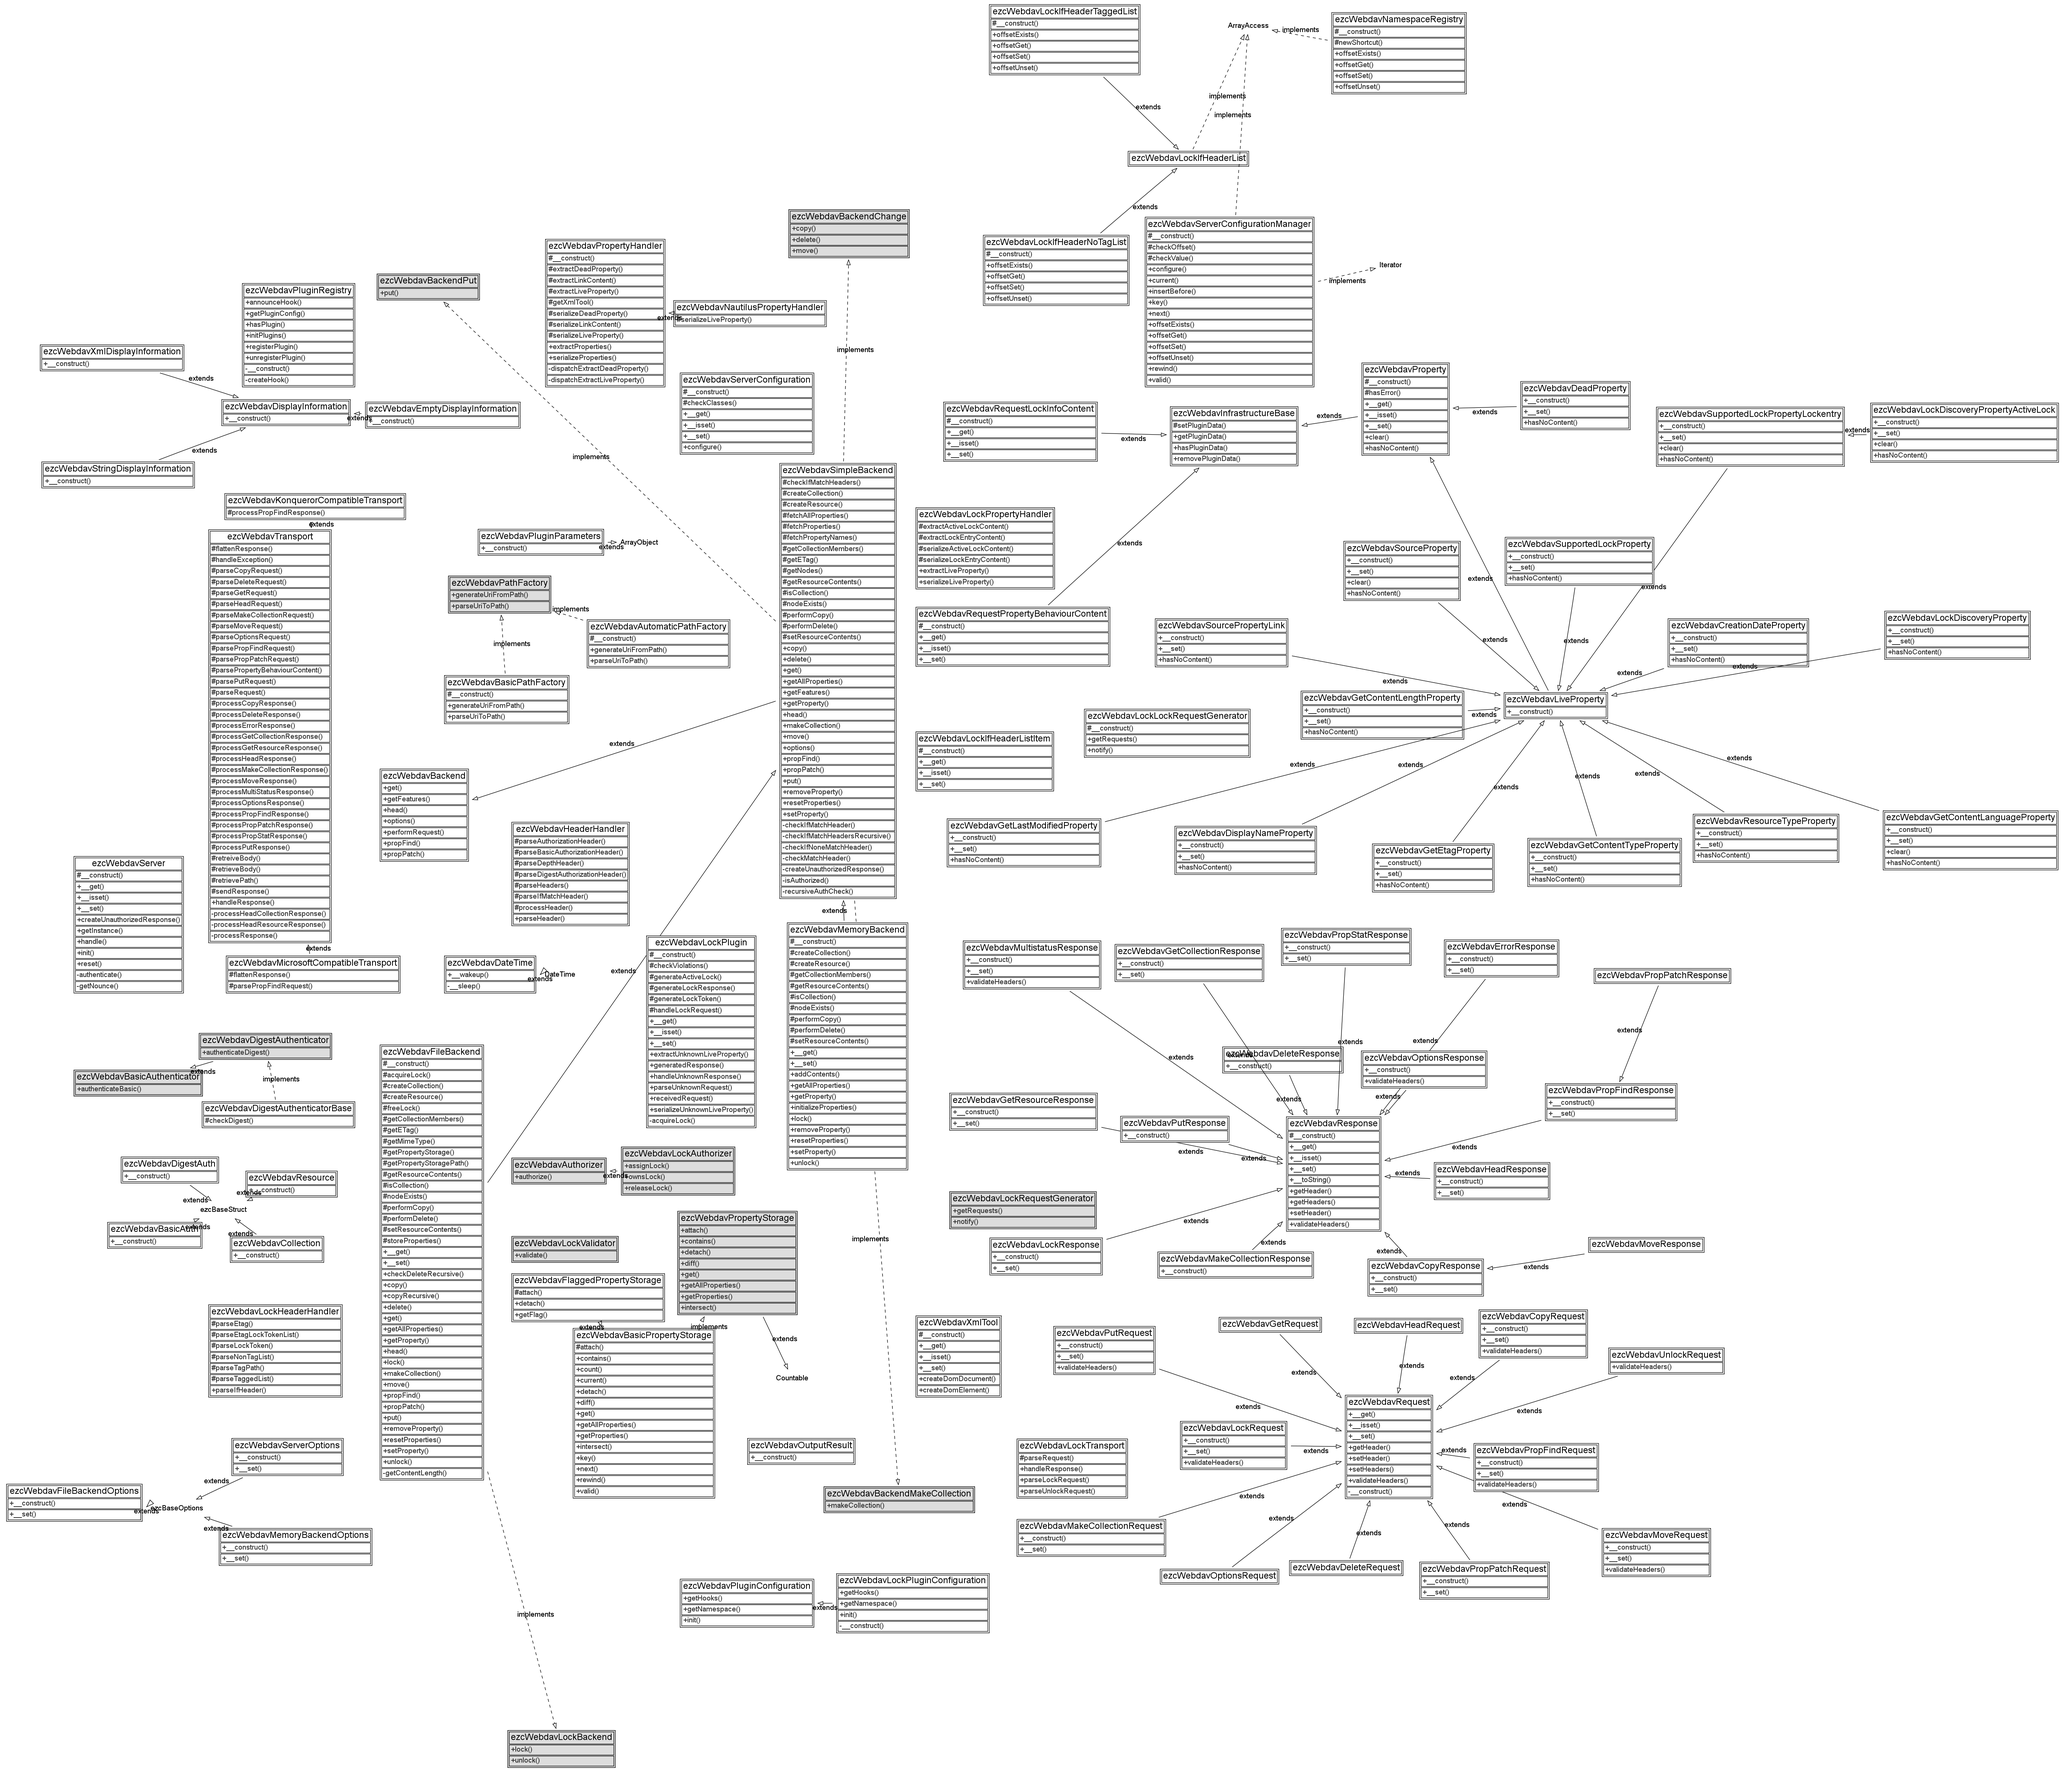
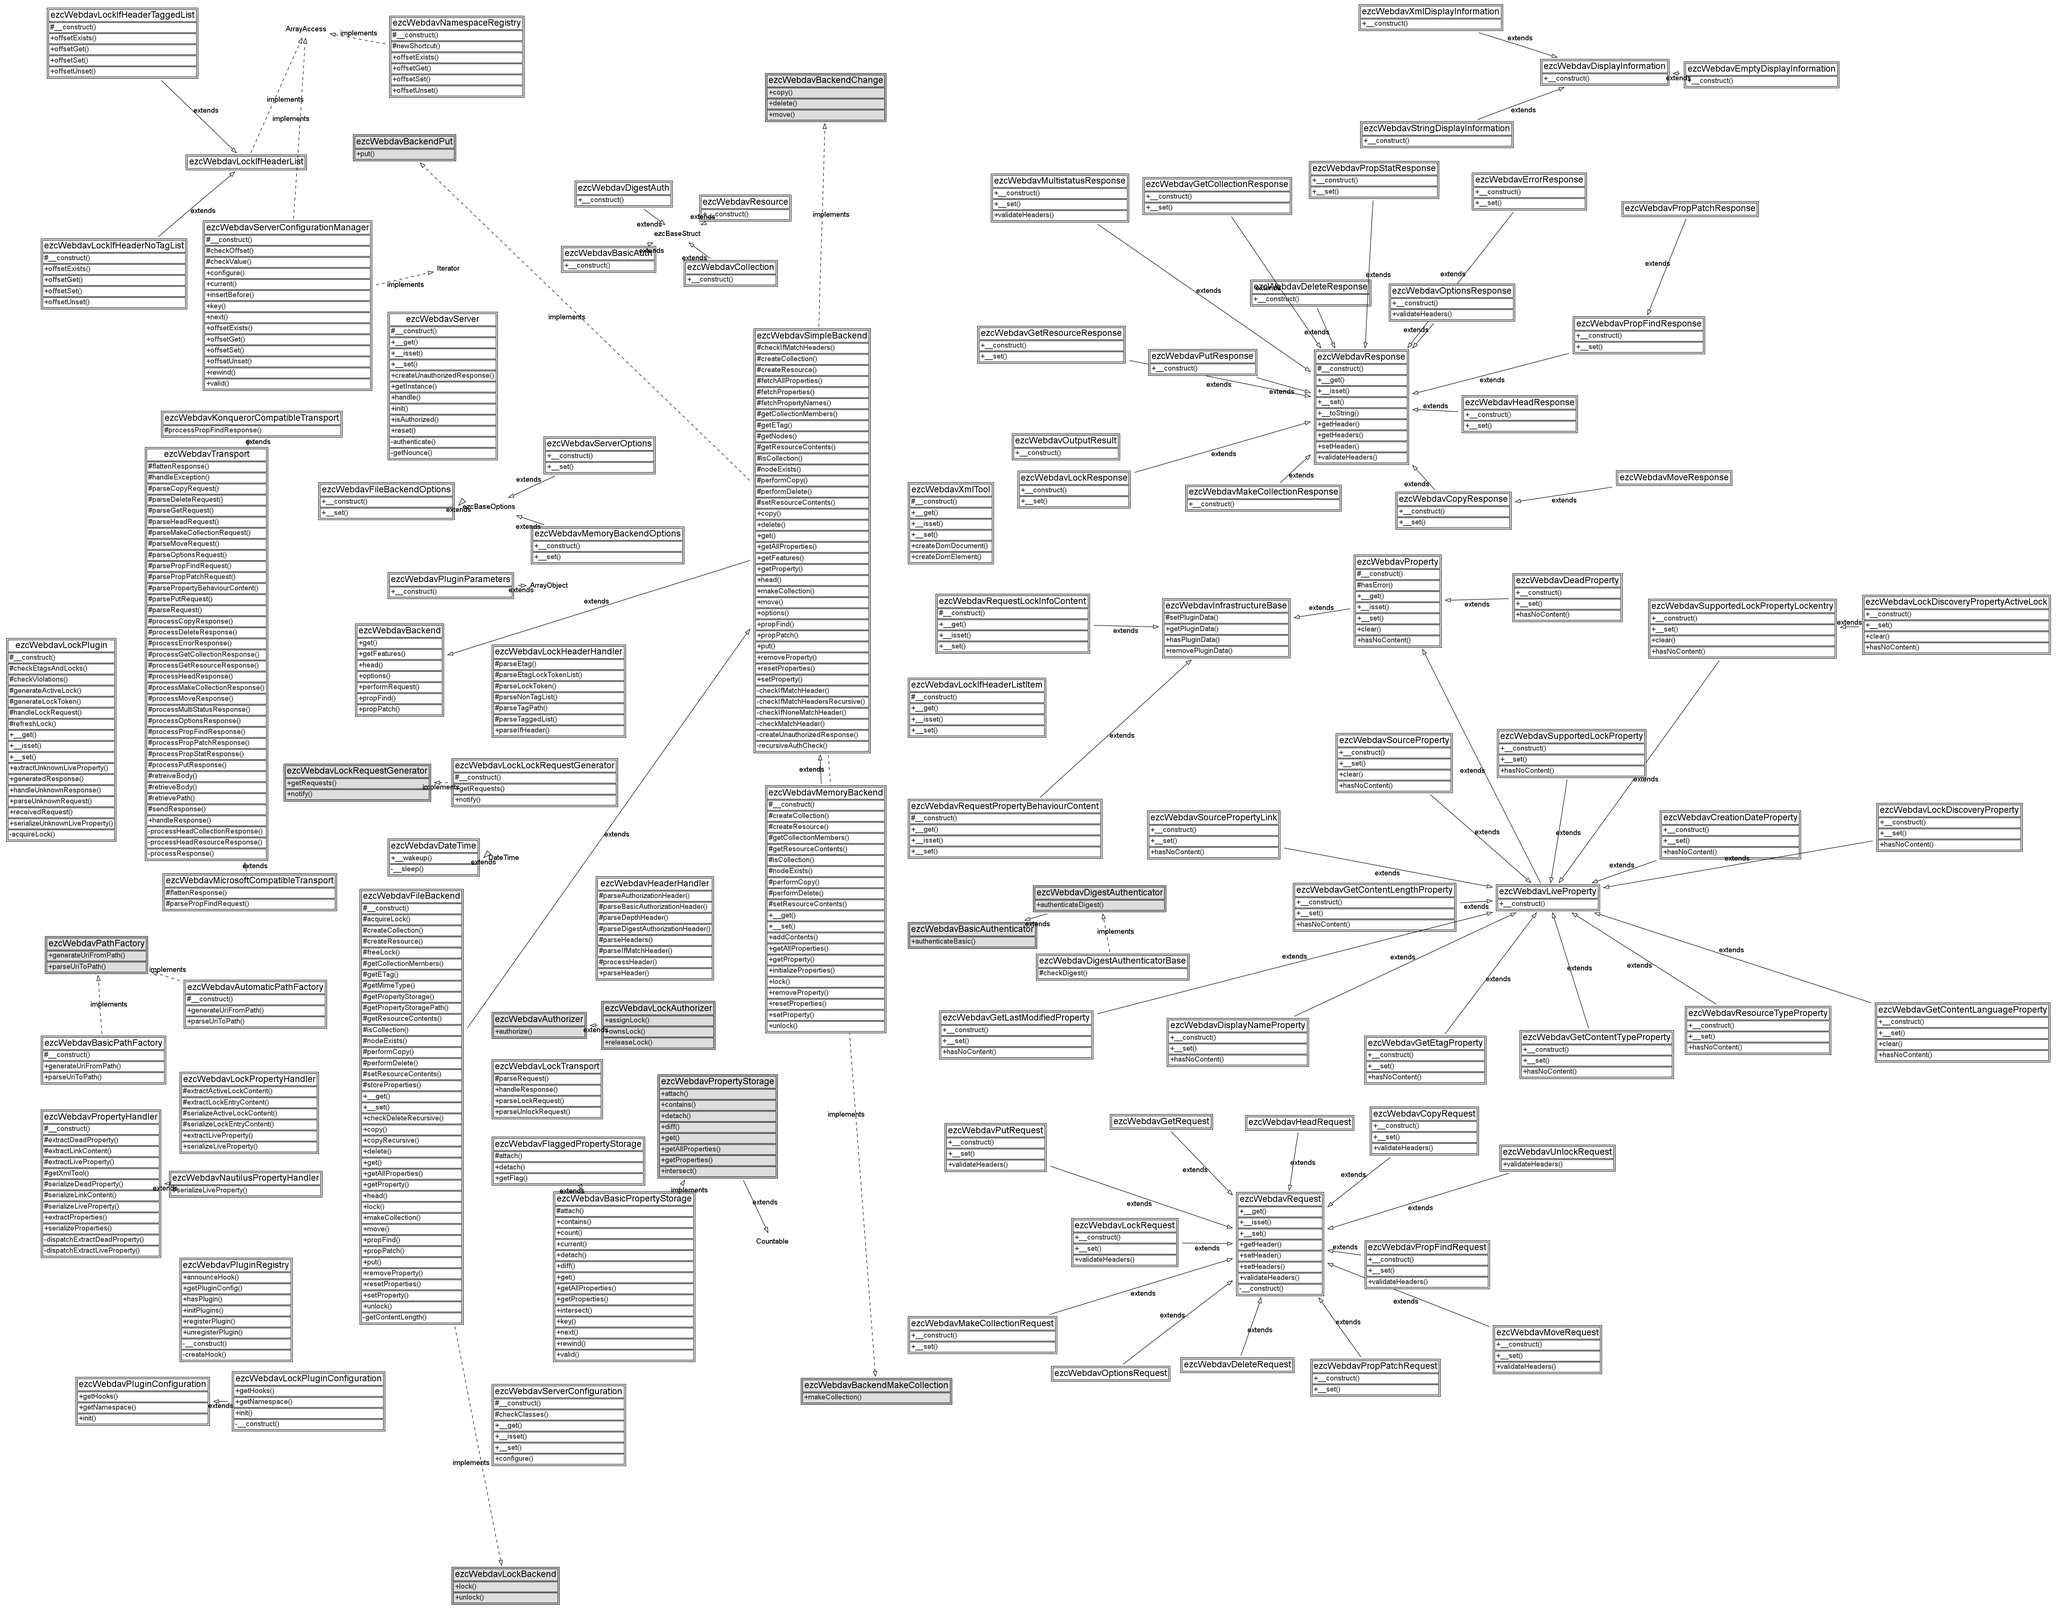
- Updated autoload file and class diagram. # Missed that I removed some classes again, before commiting.
git-svn-id: https://svn.apache.org/repos/asf/incubator/zetacomponents/trunk@976411 13f79535-47bb-0310-9956-ffa450edef68

diff --git a/Webdav/src/webdav_autoload.php b/Webdav/src/webdav_autoload.php
@@ -44,6 +44,7 @@ return array(
     'ezcWebdavDisplayInformation'                     => 'Webdav/structs/display_information.php',
     'ezcWebdavLockBackend'                            => 'Webdav/plugins/lock/interfaces/lock_backend.php',
     'ezcWebdavLockIfHeaderList'                       => 'Webdav/plugins/lock/interfaces/if_header_list.php',
+    'ezcWebdavLockRequestGenerator'                   => 'Webdav/plugins/lock/interfaces/request_generator.php',
     'ezcWebdavPathFactory'                            => 'Webdav/interfaces/path_factory.php',
     'ezcWebdavPluginConfiguration'                    => 'Webdav/plugin_configuration.php',
     'ezcWebdavPropFindResponse'                       => 'Webdav/responses/propfind.php',
@@ -94,10 +95,8 @@ return array(
     'ezcWebdavLockPluginConfiguration'                => 'Webdav/plugins/lock/config.php',
     'ezcWebdavLockPropertyHandler'                    => 'Webdav/plugins/lock/property_handler.php',
     'ezcWebdavLockRequest'                            => 'Webdav/requests/lock.php',
-    'ezcWebdavLockRequestGenerator'                   => 'Webdav/plugins/lock/interfaces/request_generator.php',
     'ezcWebdavLockResponse'                           => 'Webdav/responses/lock.php',
     'ezcWebdavLockTransport'                          => 'Webdav/plugins/lock/transport.php',
-    'ezcWebdavLockValidator'                          => 'Webdav/plugins/lock/interfaces/validator.php',
     'ezcWebdavMakeCollectionRequest'                  => 'Webdav/requests/mkcol.php',
     'ezcWebdavMakeCollectionResponse'                 => 'Webdav/responses/mkcol.php',
     'ezcWebdavMemoryBackend'                          => 'Webdav/backends/memory.php',
